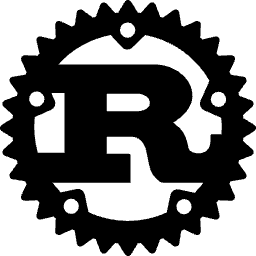
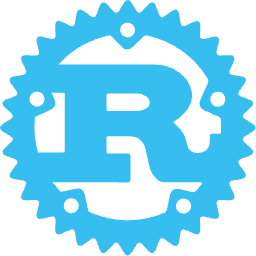
feat: 补充 csharp 语言图标，更新 julia / bash / rust 图标为新版本

diff --git a/src/components/LangSelect.tsx b/src/components/LangSelect.tsx
@@ -13,6 +13,7 @@ const LANG_ICON_FILES: Record<string, string> = {
   c: "c.png",
   cpp: "C++.png",
   java: "java.png",
+  csharp: "csharp.png",
   javascript: "javascript.png",
   r: "R.png",
   rust: "rust.png",
@@ -29,7 +30,6 @@ const LANG_ICON_FILES: Record<string, string> = {
   erlang: "Erlang.png",
   lua: "Lua.png",
   powershell: "powershell.png",
-  // csharp 暂无图片，不显示 icon
 };
 const langIconImgs = import.meta.glob<string>("../assets/code/*.png", {
   eager: true,
